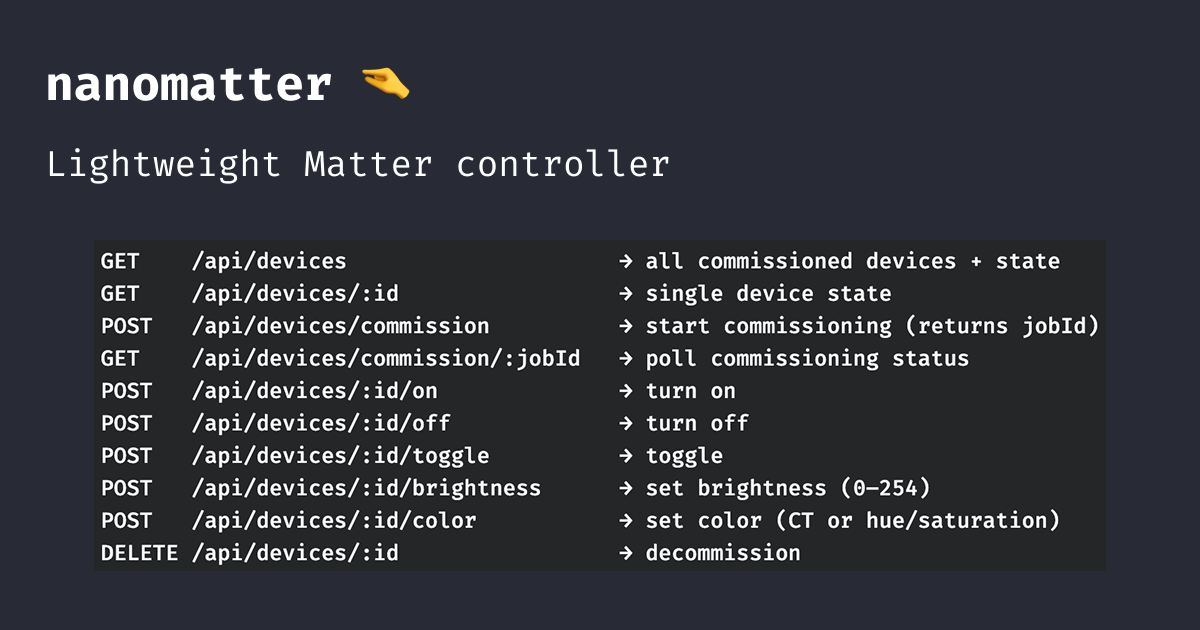
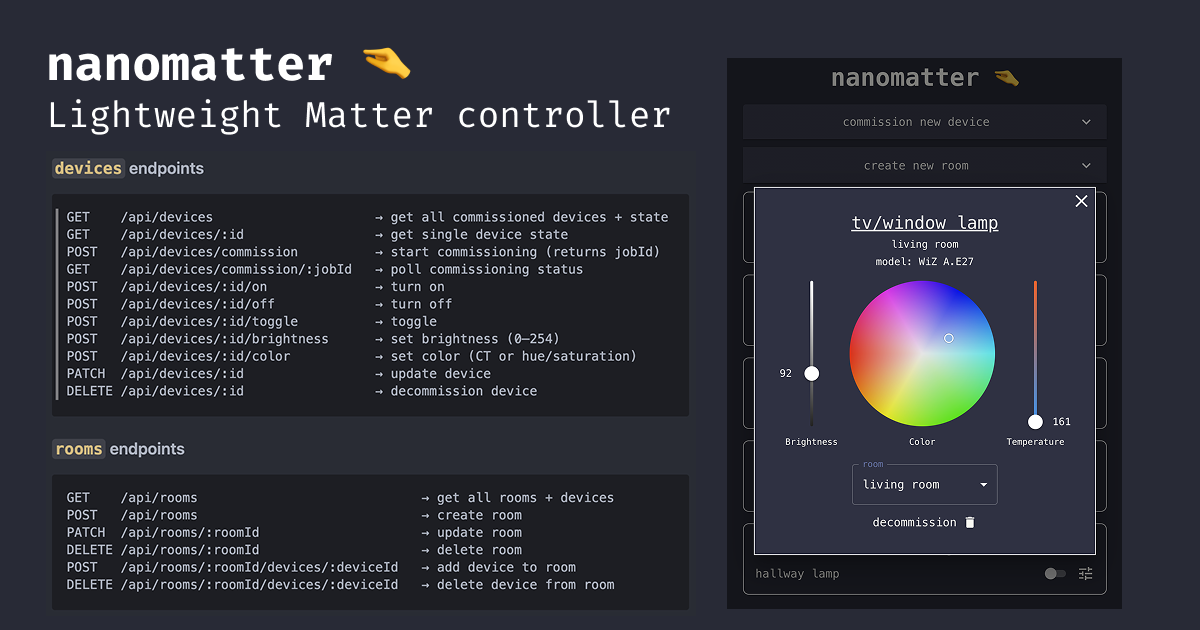
Publish nanomatter ui post

diff --git a/content/blog/nanomatter-building-the-frontend.md b/content/blog/nanomatter-building-the-frontend.md
@@ -1,0 +1,124 @@
++++
+author = "Gabriel Aleksandravicius"
+title = "Nanomatter - Building the frontend"
+date = "2026-05-13"
+summary = "A follow-up to the Nanomatter controller post: building a React dashboard to control Matter-powered lamps."
+tags = [
+  "matter",
+  "iot",
+  "docker",
+  "homelab",
+  "raspberry-pi",
+  "react",
+  "typescript",
+]
+categories = [
+    "homelab",
+]
++++
+
+The [previous post](../building-a-lightweight-matter-controller) left things at a good but inconvenient place: the controller was running, both lamps were commissioned, and every API endpoint worked. Controlling them meant `curl`-ing from a terminal. The next natural step was to work on the UI.
+
+This post covers the frontend dashboard I built. It's a fairly standard React app, so I'll skip the parts that aren't interesting and focus on the bits that required some thought.
+
+## Tech stack
+
+I used React with TypeScript and Vite, MUI for most of the UI components, Tailwind utility classes for layout and spacing. React Query handles all server state and Axios is used for HTTP calls.
+
+I also made a small update on the backend: now I have a small SQLite database on the Pi that persists room definitions and device metadata (display names, which room a device belongs to).
+
+## Dashboard
+
+The main view is a rooms page. Each room is a card listing the lamps assigned to it, with on/off toggle and a button to open the edit modal. New rooms can be added from a button at the top. Lamps can be moved between rooms from inside the modal. There are two dropdowns on the main page: one to commission new devices and one to create new rooms.
+
+{{< figure src="/images/nanomatter-building-the-frontend/nanomatter-homepage.png" alt="Nanomatter dashboard showing rooms with lamp controls" caption="Nanomatter's home page" width="400" >}}
+
+## Commissioning a new lamp
+
+This is the one UX flow that's non-trivial. The commissioning endpoint is async — as described in the previous post, it returns a `jobId` immediately and does the actual work in the background. So the frontend needs to drive that polling loop.
+
+The flow: the user opens a commission dialog, enters a pairing code and a display name, and hits submit. The frontend calls `POST /api/devices/commission` and gets back a `jobId`. It then polls `GET /api/devices/commission/:jobId` every 2 seconds until the status is either `completed` or `failed`.
+
+```typescript
+export async function commissionDevice(
+  pairingCode: string,
+  deviceName: string,
+): Promise<{ jobId: string }> {
+  const res = await client.post(`/devices/commission`, { pairingCode, deviceName })
+  return res.data
+}
+
+export async function getCommissionStatus(
+  jobId: string,
+): Promise<{ status: 'pending' | 'completed' | 'failed' }> {
+  const res = await client.get(`/devices/${jobId}/commission`)
+  return res.data
+}
+```
+
+React Query's `refetchInterval` makes the polling side straightforward: set it to `2000` while the status is `pending`, set it to `false` once terminal.
+
+Commissioning can take up to 15 seconds on a good day and longer on a bad one, so the UI shows a spinner with a status message. If it fails, the error from the job response surfaces directly.
+
+{{< figure src="/images/nanomatter-building-the-frontend/commission-device.png" alt="Dropdown used to commission a new device" caption="Dropdown used to commission a new device" width="400" >}}
+
+## Rooms
+
+Every device must be part of a room. However, when a new device is commissioned it goes to "⚠️ no room ⚠️" - a dynamic room used to accommodate devices while they don't have rooms. We can easily create a room using the 'create new room' dropdown. Then, by clicking the device's config button we can move it to that room.
+
+{{< figure src="/images/nanomatter-building-the-frontend/moving-device-to-room.gif" alt="Demonstration of how creating a new room and moving a device to it works" caption="Demonstration of how creating a new room and moving a device to it works" width="400" >}}
+
+## The lamp edit modal
+
+Clicking the config button on any device opens the edit modal. At the top it shows the device name — clicking it turns it into an inline text field so you can rename it. Below that, two lines of metadata: the room the device currently belongs to, and the factory name (the model string reported by the device itself, e.g. `WiZ A.E27`).
+
+The main controls are three things laid out side by side: a brightness slider on the left (0–254, white gradient background), a color wheel in the center, and a color temperature slider on the right (150–500 mireds, blue-to-orange gradient). All three are disabled when the device is unreachable.
+
+Below the controls, a room dropdown lets you move the device to a different room. And at the bottom, a decommission button — which asks for confirmation before doing anything.
+
+{{< figure src="/images/nanomatter-building-the-frontend/edit-modal.png" alt="Modal I created to adjust the lamp's settings" caption="Modal I created to adjust the lamp's settings" width="400" >}}
+
+The color wheel is [`@uiw/react-color-wheel`](https://uiwjs.github.io/react-color/#/wheel), and it's the one part of the modal that required some thought. Dragging around it fires `onChange` continuously.
+
+The first issue is that the color wheel and the Matter protocol speak different number ranges. Matter's `ColorControl` cluster stores hue as 0–254 and saturation as 0–254. The color wheel uses standard HSV: hue 0–360°, saturation 0–100%. So you need to convert both ways — once when initializing the wheel from device state, and once when sending a wheel interaction back to the API.
+
+Device state → wheel initialization:
+
+```typescript
+const [color, setColor] = useState({
+  h: Math.round((device.hue / 254) * 360),
+  s: (device.saturation / 254) * 100,
+  v: 90,
+  a: 1,
+})
+```
+
+Wheel interaction → API call (inside the mutation's `mutationFn`):
+
+```typescript
+updateHueAndSaturation(
+  id,
+  Math.round((color.hsva.h / 360) * 254),
+  Math.round((color.hsva.s / 100) * 254),
+)
+```
+
+The second issue is that a continuously-firing `onChange` would flood the controller with requests — one per rendered frame. To fix it I added debouncing. The update is wrapped in a 300ms debounce using [`lodash/debounce`](https://www.npmjs.com/package/lodash.debounce), held in a `useRef` so it doesn't get recreated on every render:
+
+```typescript
+const debouncedUpdate = useRef(
+  debounce((value: ColorResult) => {
+    handleHueAndSaturationUpdate({ id: device.id, color: value })
+  }, 300),
+).current
+```
+
+The `onChange` handler updates local color state immediately (so the wheel feels responsive) and passes the new value to `debouncedUpdate`. The actual API call only fires 300ms after the user stops moving.
+
+## Deployment
+
+The Dockerfile is a three-stage build. The first stage is `base`, which installs dependencies. The `build` stage copies the source and runs `npm run build`. The `production` stage is `nginx:alpine` — it copies the compiled `dist/` and drops in a minimal nginx config.
+
+The build stage uses `--platform=$BUILDPLATFORM` on the dependency and compile stages, same as described in the CI/CD post. Only the final `nginx:alpine` stage targets arm64. The frontend runs as a service in the same Docker Compose file as the controller.
+
+Every lamp is now controllable from the browser. The dashboard is accessible at `nanomatter.kaoshome.dev` from any device on my tailnet.

diff --git a/content/blog/building-a-lightweight-matter-controller.md b/content/blog/building-a-lightweight-matter-controller.md
@@ -1,6 +1,6 @@
 +++
 author = "Gabriel Aleksandravicius"
-title = "Nanomatter - Building a lightweight Matter controller"
+title = "Nanomatter - Building a lightweight Matter controller with matter.js"
 date = "2026-03-29"
 summary = "Part 6 of the homelab series: building my own Matter controller to control my home devices."
 tags = [
@@ -8,7 +8,8 @@ tags = [
   "iot",
   "docker",
   "homelab",
-  "raspberry-pi"
+  "raspberry-pi",
+  "typescript"
 ]
 categories = [
   "homelab"